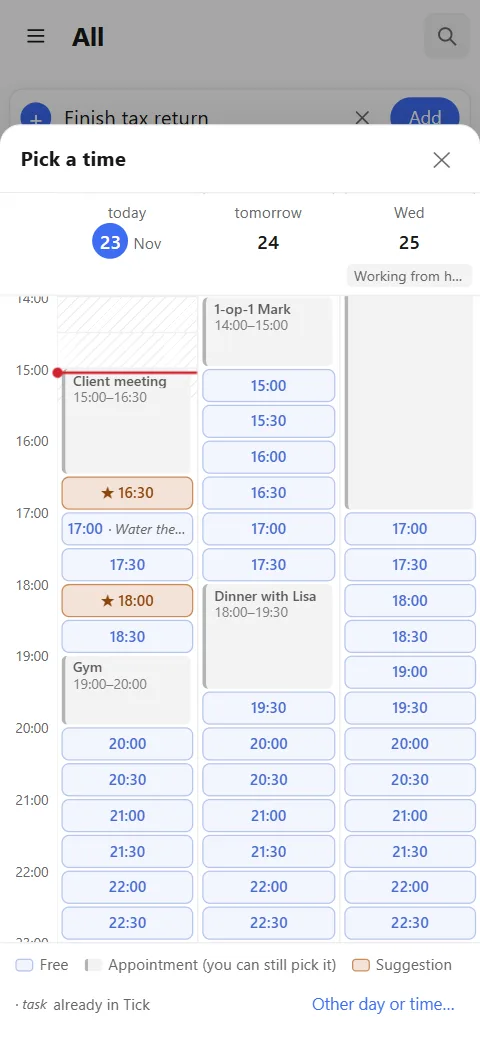
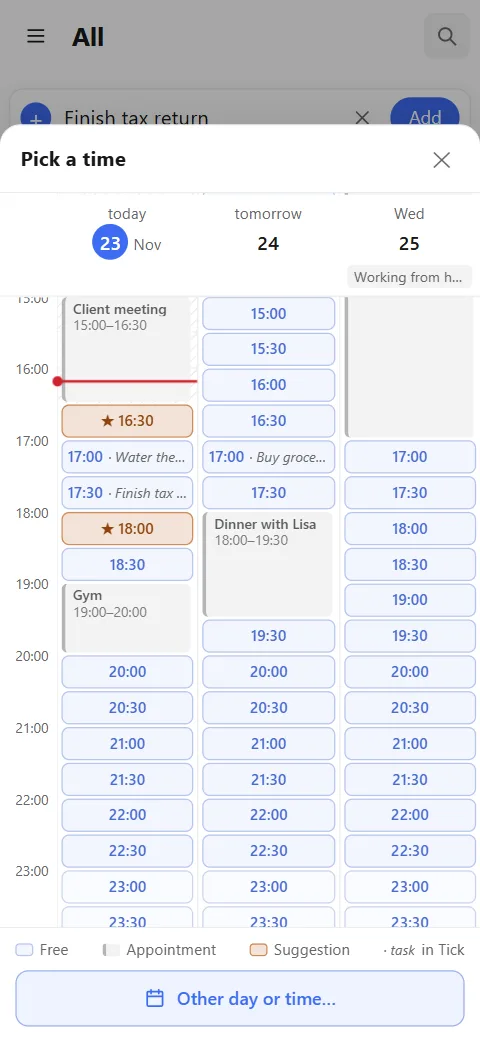
Kies in je agenda: legenda op de telefoon op één regel (niets valt weg), Andere dag of tijd als duidelijke knop

diff --git a/public/style.css b/public/style.css
@@ -623,7 +623,7 @@ button.ghost.mgr-agenda { display: inline-flex; align-items: center; gap: 6px; b
 .apick { position: fixed; inset: 40px 0; display: flex; flex-direction: column; width: min(960px, calc(100vw - 32px)); max-width: none; height: auto; max-height: none; margin: 0 auto; padding: 0; border: 1px solid var(--line); border-radius: 12px; background: var(--card); color: var(--text); box-shadow: 0 10px 40px var(--shadow); --apick-rowh: 26px; --apick-timew: 52px; --apick-cols: 7; }
 .apick:not([open]) { display: none; }
 .apick::backdrop { background: var(--scrim); }
-.apick.sheet { inset: auto 0 0; width: 100%; max-width: 100%; margin: 0; height: 88dvh; border-width: 1px 0 0; border-radius: 16px 16px 0 0; padding-bottom: env(safe-area-inset-bottom); --apick-rowh: 28px; --apick-timew: 44px; --apick-cols: 3; }
+.apick.sheet { inset: auto 0 0; width: 100%; max-width: 100%; margin: 0; height: 88dvh; border-width: 1px 0 0; border-radius: 16px 16px 0 0; --apick-rowh: 28px; --apick-timew: 44px; --apick-cols: 3; }
 .apick-top { display: flex; align-items: center; gap: 8px; min-height: 52px; padding: 4px 8px 4px 16px; border-bottom: 1px solid var(--line); }
 .apick-title { flex: 1; font-size: 1rem; }
 .apick-nav { display: flex; align-items: center; gap: 2px; color: var(--muted); font-size: .8125rem; }
@@ -674,14 +674,20 @@ button.ghost.mgr-agenda { display: inline-flex; align-items: center; gap: 6px; b
 .apick-ev span { opacity: .85; }
 .apick-now { position: absolute; z-index: 3; left: 0; right: 0; top: calc(var(--apick-rowh) * var(--top)); height: 2px; background: var(--danger); pointer-events: none; }
 .apick-now::before { content: ""; position: absolute; left: -4px; top: -3px; width: 8px; height: 8px; border-radius: 50%; background: var(--danger); }
-.apick-foot { display: flex; flex-wrap: wrap; align-items: center; gap: 4px 12px; padding: 8px 12px 10px; border-top: 1px solid var(--line); color: var(--muted); font-size: .75rem; }
-.apick-lg { display: inline-flex; align-items: center; gap: 5px; }
+.apick-foot { display: flex; align-items: center; gap: 8px 16px; padding: 8px 12px 10px; border-top: 1px solid var(--line); color: var(--muted); font-size: .75rem; }
+.apick.sheet .apick-foot { flex-direction: column; align-items: stretch; padding-bottom: calc(10px + env(safe-area-inset-bottom)); }
+.apick-legend { flex: 1; display: flex; flex-wrap: wrap; align-items: center; gap: 4px 12px; min-width: 0; }
+.apick.sheet .apick-legend { flex-wrap: nowrap; justify-content: space-between; gap: 8px; overflow-x: auto; scrollbar-width: none; white-space: nowrap; }
+.apick-lg { display: inline-flex; align-items: center; gap: 5px; flex: none; }
 .apick-sw { display: inline-block; width: 14px; height: 10px; border-radius: 3px; }
 .apick-sw.free { border: 1px solid color-mix(in srgb, var(--accent) 30%, var(--line)); background: color-mix(in srgb, var(--accent) 6%, var(--card)); }
 .apick-sw.busy { border-left: 3px solid color-mix(in srgb, var(--muted) 45%, transparent); background: var(--fill); }
 .apick-sw.tip { border: 1px solid color-mix(in srgb, var(--bell) 60%, transparent); background: color-mix(in srgb, var(--bell) 16%, var(--card)); }
-.apick-other { margin-left: auto; min-height: 36px; padding: 4px 8px; border-radius: 8px; background: transparent; color: var(--link); font-size: .8125rem; }
-.apick-other:hover { background: var(--hover); }
+/* Andere dag of tijd: een echte knop (rand in de accentkleur, icoon), smal over de hele breedte */
+.apick-other { flex: none; display: inline-flex; align-items: center; justify-content: center; gap: 8px; min-height: 40px; padding: 6px 14px; border: 1px solid color-mix(in srgb, var(--accent) 45%, var(--line)); border-radius: 10px; background: color-mix(in srgb, var(--accent) 8%, var(--card)); color: var(--link); font-size: .875rem; font-weight: 600; }
+.apick-other svg { width: 18px; height: 18px; }
+.apick-other:hover, .apick-other:focus-visible { background: color-mix(in srgb, var(--accent) 16%, var(--card)); }
+.apick.sheet .apick-other { min-height: 44px; }
 .menu-head { padding: 6px 10px 2px; color: var(--muted); font-size: .75rem; font-weight: 600; text-transform: uppercase; letter-spacing: .03em; }
 .menu-cancel { justify-content: center; text-align: center; color: var(--muted); }
 .menu-input { margin: 2px 0; padding: 6px 8px; font-size: .875rem; }

diff --git a/public/agendapick.js b/public/agendapick.js
@@ -10,6 +10,7 @@ import { whenText } from './planner.js';
 import { backCloses, narrow } from './popover.js';
 import { getTimeZone } from './repeat.js';
 import { el, fromLocalInput, toLocalInput } from './render.js';
+import { icon } from './icons.js';
 import { state } from './store.js';
 
 /**
@@ -52,12 +53,14 @@ export function openAgendaPicker(anchor, current, onPick, { onOther, onDismiss }
         el('button', { type: 'button', class: 'apick-arrow', 'aria-label': t('apick.next'), onclick: () => go(1) }, '›')) : null,
       el('button', { type: 'button', class: 'apick-close', 'aria-label': t('apick.close'), onclick: () => finish(null) }, '✕')),
     scroll,
+    // Onderaan: een korte legenda (smal op één regel, zonder iets weg te laten) en "Andere dag of tijd" als echte knop.
     el('div', { class: 'apick-foot' },
-      el('span', { class: 'apick-lg' }, el('i', { class: 'apick-sw free' }), t('apick.free')),
-      busy ? el('span', { class: 'apick-lg' }, el('i', { class: 'apick-sw busy' }), t('apick.busy')) : null,
-      tips.size ? el('span', { class: 'apick-lg' }, el('i', { class: 'apick-sw tip' }), t('apick.tip')) : null,
-      el('span', { class: 'apick-lg' }, el('i', { class: 'apick-tk' }, '· ' + t('apick.task_word')), ' ', t('apick.task')),
-      onOther ? el('button', { type: 'button', class: 'apick-other', onclick: () => finish(null, onOther) }, t('apick.other')) : null));
+      el('div', { class: 'apick-legend' },
+        el('span', { class: 'apick-lg' }, el('i', { class: 'apick-sw free' }), t('apick.free')),
+        busy ? el('span', { class: 'apick-lg' }, el('i', { class: 'apick-sw busy' }), t('apick.busy')) : null,
+        tips.size ? el('span', { class: 'apick-lg' }, el('i', { class: 'apick-sw tip' }), t('apick.tip')) : null,
+        el('span', { class: 'apick-lg' }, el('i', { class: 'apick-tk' }, '· ' + t('apick.task_word')), ' ', t('apick.task'))),
+      onOther ? el('button', { type: 'button', class: 'apick-other', onclick: () => finish(null, onOther) }, icon('calendar'), t('apick.other')) : null));
 
   function draw() {
     const days = gridDays(now, count);

diff --git a/public/i18n.js b/public/i18n.js
@@ -1401,10 +1401,10 @@ export const STRINGS = {
     'apick.more': 'More days',
     'apick.more_sub': '+2 weeks',
     'apick.free': 'Free',
-    'apick.busy': 'Appointment (you can still pick it)',
+    'apick.busy': 'Appointment',
     'apick.tip': 'Suggestion',
     'apick.task_word': 'task',
-    'apick.task': 'already in Tick',
+    'apick.task': 'in Tick',
     'apick.other': 'Other day or time…',
     'apick.slot_busy': '{when}, during {title}',
     'detail.add_cal': 'Add to calendar',
@@ -2811,10 +2811,10 @@ export const STRINGS = {
     'apick.more': 'Meer dagen',
     'apick.more_sub': '+2 weken',
     'apick.free': 'Vrij',
-    'apick.busy': 'Afspraak (kiezen mag)',
+    'apick.busy': 'Afspraak',
     'apick.tip': 'Suggestie',
     'apick.task_word': 'taak',
-    'apick.task': 'al in Tick',
+    'apick.task': 'in Tick',
     'apick.other': 'Andere dag of tijd…',
     'apick.slot_busy': '{when}, tijdens {title}',
     'detail.add_cal': 'Zet in je agenda',
